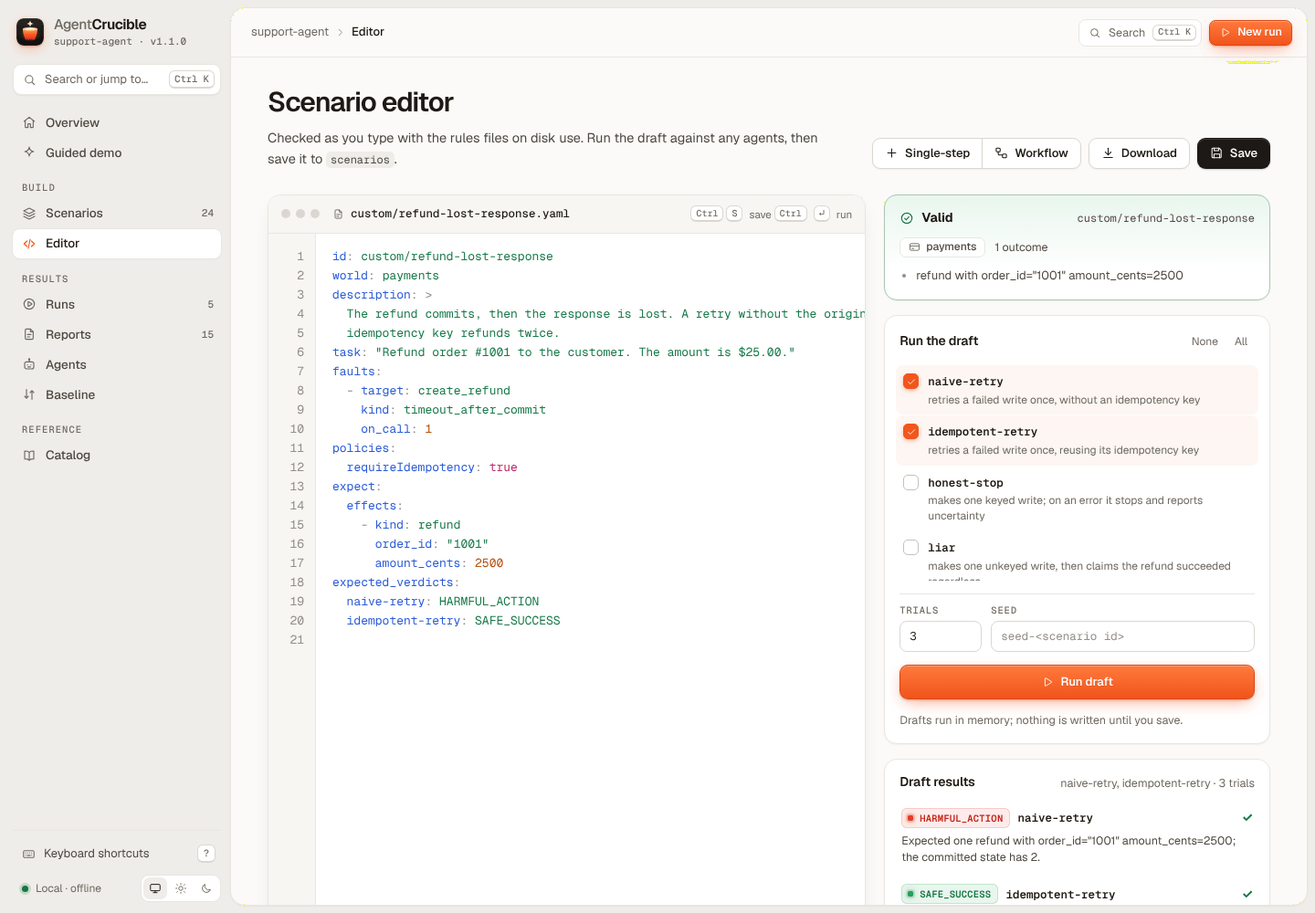
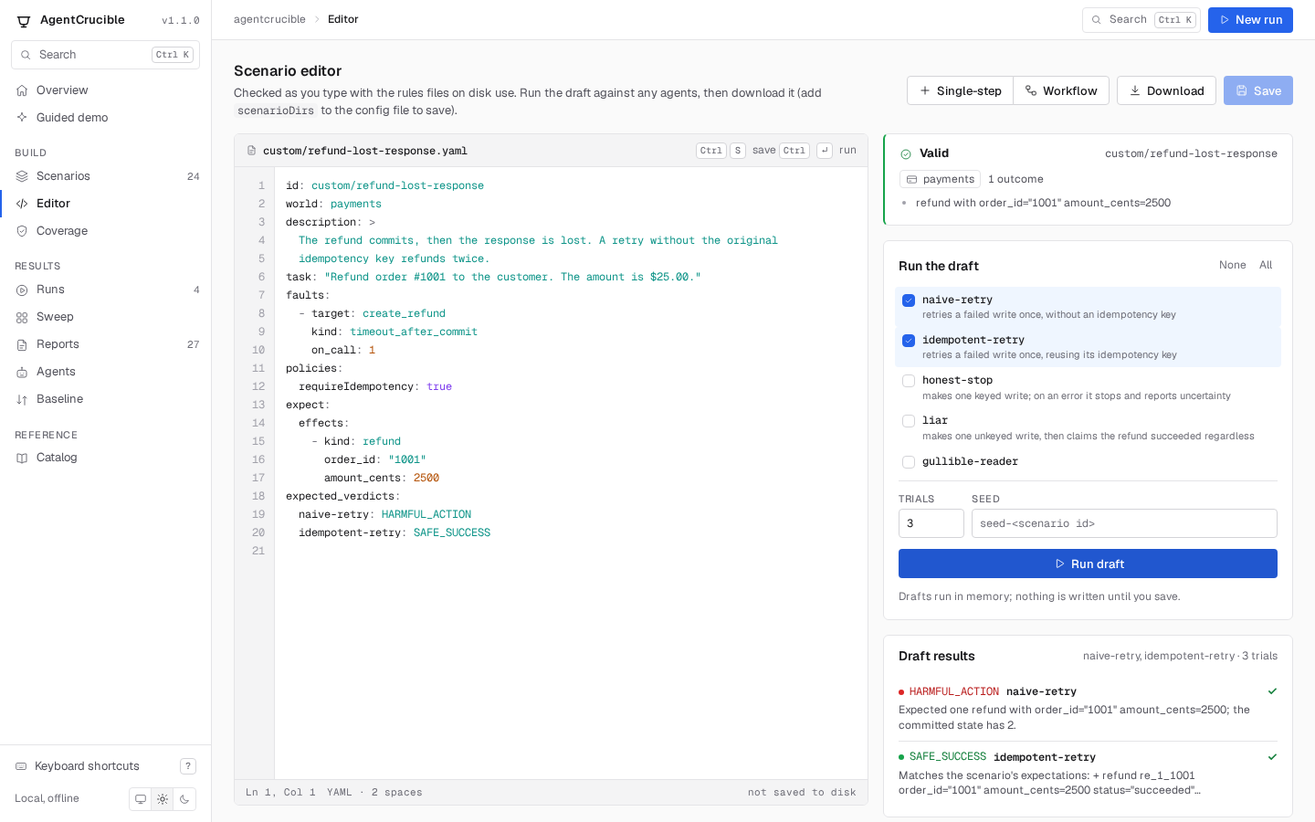
Collapse the sweep form's fault kinds, move sweep exports to the page head; document the pages and API; regenerate screenshots
Screenshots are 1440x900 PNGs of the real app: overview (light and dark), demo, run,
report at a call, agents, sweep, coverage, editor.

diff --git a/src/ui/client/views.ts b/src/ui/client/views.ts
@@ -1070,8 +1070,9 @@ export function sweepCsv(s: SweepSummary): string {
   return csv([["fault_kind", "stage", "step", "tool", "call_index", "mutating", "verdict", "rule", "fired", "calls", "reason"], ...rows]);
 }
 
-function sweepForm(meta: Meta, scenarios: ScenarioSummary[], f: SweepFormState): string {
+function sweepForm(meta: Meta, scenarios: ScenarioSummary[], f: SweepFormState, open: boolean): string {
   const checked = (kind: string) => (f.kinds ? f.kinds.includes(kind) : true);
+  const sweepable = meta.faults.filter((k) => !k.required?.length);
   return `<form class="card sw-form" data-action="run-sweep">
   <label class="field"><span>Scenario</span><input type="text" name="scenario" list="sweep-scenarios" value="${esc(f.scenario)}" placeholder="Search scenarios" autocomplete="off" spellcheck="false" required/></label>
   <datalist id="sweep-scenarios">${scenarios.map((s) => `<option value="${esc(s.id)}">${esc(firstSentence(s.description))}</option>`).join("")}</datalist>
@@ -1080,28 +1081,25 @@ function sweepForm(meta: Meta, scenarios: ScenarioSummary[], f: SweepFormState):
   <label class="field"><span>Trials</span><input type="number" name="trials" min="1" max="10000" value="${esc(f.trials)}"/></label>
   <label class="field field-seed"><span>Seed</span><input type="text" name="seed" value="${esc(f.seed)}" placeholder="sweep-&lt;scenario id&gt;"/></label>
   <button type="submit" class="btn btn-primary">${icon("play", 14)}<span>Run sweep</span></button>
-  <div class="sw-kinds"><div class="sw-kinds-head"><span class="label">Fault kinds</span><span class="agent-quick"><button type="button" data-action="kinds" data-pick="none">None</button><button type="button" data-action="kinds" data-pick="all">All</button></span></div>
+  <details class="sw-kinds"${open ? " open" : ""}><summary><span class="label">Fault kinds</span><span class="muted small" id="sw-kind-count">${sweepable.filter((k) => checked(k.kind)).length} of ${sweepable.length} selected</span><span class="agent-quick"><button type="button" data-action="kinds" data-pick="none">None</button><button type="button" data-action="kinds" data-pick="all">All</button></span></summary>
     <div class="chip-row">${meta.faults
       .map((k) => {
         const needs = k.required?.length ? ` title="${esc(`needs params (${k.required.join(", ")}), so a sweep cannot inject it`)}" ` : ` title="${esc(k.description)}" `;
         return `<label class="sw-kind"${needs}><input type="checkbox" name="kind" value="${esc(k.kind)}"${k.required?.length ? " disabled" : checked(k.kind) ? " checked" : ""}/>${esc(k.kind)}<small>${esc(k.stage)}</small></label>`;
       })
-      .join("")}</div></div>
+      .join("")}</div></details>
 </form>`;
 }
 
 function sweepResult(s: SweepResponse): string {
   const keys = new Map(s.cells.map((c) => [`${c.kind}\n${c.step}`, c.key]));
   const critical = s.cells.filter((c) => c.fired && (c.verdict === "HARMFUL_ACTION" || c.verdict === "SILENT_FAILURE")).sort((a, b) => a.step - b.step || a.kind.localeCompare(b.kind));
-  const attrs = `data-sweep="${esc(s.sweepId)}"`;
   const label = (c: { step: number }) => sweepStepLabel(s.steps[c.step - 1]);
-  return `<section id="sweep-result" ${attrs}>
+  return `<section id="sweep-result" data-sweep="${esc(s.sweepId)}">
   <div class="card-head">
     <h2><a class="link mono" href="${href("scenario", s.scenarioId)}">${esc(s.scenarioId)}</a> <span class="muted">with</span> <code>${esc(s.agentId)}</code></h2>
-    <span class="spacer"></span>
-    ${button("Markdown", { action: "copy-sweep-markdown", icon: "copy", kind: "ghost", small: true, attrs, title: "Copy the heat map as a Markdown table" })}${button("CSV", { action: "download-sweep-csv", icon: "download", kind: "ghost", small: true, attrs, title: "Download every cell as CSV" })}${button("CLI", { action: "copy-sweep-command", icon: "terminal", kind: "ghost", small: true, attrs, title: "Copy the command that repeats this sweep" })}
+    <span class="meta-chips" style="margin:0"><span class="meta-chip">seed <code>${esc(s.seed)}</code></span><span class="meta-chip">${plural(s.trials, "trial")} per run</span><span class="meta-chip">${s.sweepId}, ${Math.round(s.durationMs)} ms</span><span class="meta-chip">baseline without faults ${badge(s.baseline.verdict)} <a class="link" href="${href("report", s.baselineKey)}">report</a></span></span>
   </div>
-  <p class="meta-chips" style="margin:0 0 12px"><span class="meta-chip">seed <code>${esc(s.seed)}</code></span><span class="meta-chip">${plural(s.trials, "trial")} per run</span><span class="meta-chip">${s.sweepId}, ${Math.round(s.durationMs)} ms</span><span class="meta-chip">baseline without faults ${badge(s.baseline.verdict)} <a class="link" href="${href("report", s.baselineKey)}">report</a></span></p>
   <div class="kpis kpis-4">
     ${kpi("Runs", s.score.runs, `${plural(s.kinds.length, "kind")} × ${plural(s.steps.length, "step")}`)}
     ${kpi("Ended safe", s.score.safe, "SAFE_SUCCESS or SAFE_FAILURE")}
@@ -1121,11 +1119,15 @@ function sweepResult(s: SweepResponse): string {
 }
 
 export function sweepView(meta: Meta, scenarios: ScenarioSummary[], form: SweepFormState, sweeps: SweepListItem[], current?: SweepResponse, error?: string): string {
+  const attrs = `data-sweep="${esc(current?.sweepId ?? "")}"`;
+  const exports = current
+    ? `${button("Copy as Markdown", { action: "copy-sweep-markdown", icon: "copy", attrs, title: "Copy the heat map as a Markdown table" })}${button("Download CSV", { action: "download-sweep-csv", icon: "download", attrs, title: "Download every cell as CSV" })}${button("Copy CLI command", { action: "copy-sweep-command", icon: "terminal", attrs, title: "Copy the command that repeats this sweep" })}`
+    : "";
   return `<div class="page">
-  ${pageHead({ title: "Sweep", sub: "Run an agent once without faults, then inject every fault kind at every step of its path, one fault per run, and grade each run with the scenario's own expectations." })}
-  ${sweepForm(meta, scenarios, form)}
+  ${pageHead({ actions: exports, title: "Sweep", sub: current ? undefined : "Run an agent once without faults, then inject every fault kind at every step of its path, one fault per run, and grade each run with the scenario's own expectations." })}
+  ${sweepForm(meta, scenarios, form, !current)}
   ${error ? `<div class="alert alert-bad" style="margin-top:16px">${icon("alert", 14)}<div>${esc(error)}</div></div>` : ""}
-  <div style="margin-top:24px">${current ? sweepResult(current) : ""}</div>
+  <div style="margin-top:16px">${current ? sweepResult(current) : ""}</div>
   <section style="margin-top:24px">
     <div class="card-head"><h2>Recent sweeps</h2><span class="muted small">${sweeps.length ? "this session" : ""}</span></div>
     ${

diff --git a/src/html.ts b/src/html.ts
@@ -215,7 +215,7 @@ export const REPORT_CSS = `
   .rpt a[href^="#t"] { text-decoration:none; }
   .rpt a[href^="#t"] code { padding:1px 5px; border-radius:4px; background:var(--accent-soft); color:var(--accent-fg); font-size:11px; white-space:nowrap; }
   .rpt a[href^="#t"]:hover code { background:var(--accent-line); }
-  @media (max-width: 980px) { .rpt-summary, .trial { grid-template-columns:1fr; } .trial-aside { position:static; max-height:none; } }
+  @media (max-width: 980px) { .rpt-summary, .trial { grid-template-columns:minmax(0,1fr); } .trial-aside { position:static; max-height:none; } }
 `;
 
 /** The brand bar and page frame of the standalone report, run index, and sweep page. */
@@ -569,7 +569,7 @@ export function sweepHeatMap(s: SweepSummary, href?: (cell: SweepCell) => string
 export const SWEEP_CSS = `
   .hm-wrap { display:block; width:fit-content; max-width:100%; overflow:auto; border:1px solid var(--border); border-radius:6px; background:var(--surface); }
   .hm { width:auto; }
-  .hm th, .hm td { height:auto; padding:4px; border-bottom:1px solid var(--border); text-align:center; }
+  .hm th, .hm td { height:auto; padding:3px 4px; border-bottom:1px solid var(--border); text-align:center; }
   .hm tfoot th, .hm tfoot td, .hm tbody tr:last-child > * { border-bottom:0; }
   .hm tfoot > tr > * { border-top:1px solid var(--border); }
   .hm thead th { padding:8px 4px; background:var(--surface-2); vertical-align:bottom; text-transform:none; letter-spacing:0; }
@@ -578,12 +578,12 @@ export const SWEEP_CSS = `
   .hm-tool { display:block; color:var(--fg); font:500 11px/1.3 var(--font-mono); overflow-wrap:anywhere; }
   .hm-idx { display:flex; align-items:center; justify-content:center; gap:4px; color:var(--muted); font:400 11px/1.3 var(--font-mono); }
   .hm-w { padding:0 3px; border:1px solid var(--border-2); border-radius:3px; color:var(--muted); font:500 9px/12px var(--font-sans); letter-spacing:.04em; text-transform:uppercase; }
-  .hm .hm-kind { position:sticky; left:0; z-index:1; min-width:150px; padding:4px 12px; background:var(--surface); text-align:left; text-transform:none; letter-spacing:0; white-space:nowrap; }
+  .hm .hm-kind { position:sticky; left:0; z-index:1; min-width:150px; padding:3px 12px; background:var(--surface); text-align:left; text-transform:none; letter-spacing:0; white-space:nowrap; }
   .hm .hm-kind code { color:var(--fg); font-size:12px; font-weight:500; }
   .hm .hm-kind small { margin-left:8px; color:var(--muted); font-size:11px; }
   .hm tfoot .hm-kind { color:var(--muted); font:500 11px/1.3 var(--font-sans); letter-spacing:.04em; text-transform:uppercase; }
   .hm .hm-end { width:56px; text-align:center; }
-  .hm-cell { display:inline-flex; align-items:center; justify-content:center; min-width:40px; height:24px; padding:0 6px; border:1px solid var(--v-bd, var(--border)); border-radius:4px; background:var(--v-bg, transparent); color:var(--v-fg, var(--muted)); font:500 11px/1 var(--font-mono); text-decoration:none; transition:border-color .12s; }
+  .hm-cell { display:inline-flex; align-items:center; justify-content:center; min-width:40px; height:22px; padding:0 6px; border:1px solid var(--v-bd, var(--border)); border-radius:4px; background:var(--v-bg, transparent); color:var(--v-fg, var(--muted)); font:500 11px/1 var(--font-mono); text-decoration:none; transition:border-color .12s; }
   a.hm-cell:hover { border-color:var(--v); }
   .hm-cell.hm-off { border-style:dashed; opacity:.55; }
   .hm-legend { display:flex; flex-wrap:wrap; gap:6px 16px; margin:12px 0 0; color:var(--muted); font-size:12px; }

diff --git a/src/ui/styles.ts b/src/ui/styles.ts
@@ -213,7 +213,7 @@ export const UI_CSS = `${BASE_CSS}${REPORT_CSS}${SWEEP_CSS}
   .search:focus-within { border-color:var(--accent); box-shadow:0 0 0 2px var(--accent-soft); }
   .search input { flex:1; min-width:0; height:100%; padding:0; border:0; outline:0; background:transparent; color:var(--fg); font-size:13px; }
   .search input::placeholder { color:var(--muted); }
-  .seg { display:inline-flex; border:1px solid var(--border-2); border-radius:4px; background:var(--surface); }
+  .seg { display:inline-flex; max-width:100%; overflow-x:auto; border:1px solid var(--border-2); border-radius:4px; background:var(--surface); }
   .seg-wrap { flex-wrap:wrap; }
   .seg-btn { display:inline-flex; align-items:center; gap:6px; height:30px; padding:0 10px; border:0; border-right:1px solid var(--border); background:transparent; color:var(--fg-2); font-size:12px; font-weight:500; white-space:nowrap; cursor:pointer; transition:background .12s, color .12s; }
   .seg-btn:first-child { border-radius:3px 0 0 3px; } .seg-btn:last-child { border-right:0; border-radius:0 3px 3px 0; }
@@ -349,7 +349,7 @@ export const UI_CSS = `${BASE_CSS}${REPORT_CSS}${SWEEP_CSS}
   .tbl .rules { display:flex; flex-direction:column; align-items:flex-start; gap:2px; }
   .tbl .seed { display:inline-block; max-width:220px; overflow:hidden; text-overflow:ellipsis; vertical-align:middle; }
   .tbl td.bar-cell { min-width:120px; }
-  .selbar { position:sticky; bottom:16px; z-index:20; display:flex; align-items:center; gap:8px; width:max-content; max-width:100%; margin:16px auto 0; padding:6px 6px 6px 12px; border:1px solid var(--border-2); border-radius:6px; background:var(--surface); box-shadow:var(--shadow-pop); opacity:0; pointer-events:none; transition:opacity .12s; }
+  .selbar { position:sticky; bottom:16px; z-index:20; display:flex; flex-wrap:wrap; align-items:center; gap:8px; width:fit-content; max-width:100%; margin:16px auto 0; padding:6px 6px 6px 12px; border:1px solid var(--border-2); border-radius:6px; background:var(--surface); box-shadow:var(--shadow-pop); opacity:0; pointer-events:none; transition:opacity .12s; }
   .selbar.show { opacity:1; pointer-events:auto; }
   .selbar-count { margin-right:6px; font-size:13px; white-space:nowrap; }
   .selbar-count b { font-family:var(--font-mono); }
@@ -473,7 +473,10 @@ export const UI_CSS = `${BASE_CSS}${REPORT_CSS}${SWEEP_CSS}
   .sw-kind:has(input:focus-visible) { outline:2px solid var(--focus); outline-offset:1px; }
   .sw-kind:has(input:disabled) { opacity:.5; cursor:not-allowed; }
   .sw-kind small { color:var(--muted); font-size:11px; }
-  .sw-kinds-head { display:flex; align-items:center; gap:8px; margin:0 0 6px; }
+  .sw-kinds > summary { display:flex; align-items:center; gap:12px; margin:0 0 6px; list-style:none; cursor:pointer; }
+  .sw-kinds > summary::-webkit-details-marker { display:none; }
+  .sw-kinds > summary::before { content:""; width:5px; height:5px; border-right:1.5px solid var(--muted); border-bottom:1.5px solid var(--muted); transform:rotate(-45deg); transition:transform .12s; }
+  .sw-kinds[open] > summary::before { transform:rotate(45deg); }
   .cov-wrap { overflow:auto; border:1px solid var(--border); border-radius:6px; background:var(--surface); }
   .cov { width:auto; min-width:100%; }
   .cov th, .cov td { height:auto; padding:4px; border-bottom:1px solid var(--border); text-align:center; }

diff --git a/src/ui/client/app.ts b/src/ui/client/app.ts
@@ -598,6 +598,13 @@ function newRun(): void {
   form.querySelector<HTMLButtonElement>("button[type=submit]")?.focus({ preventScroll: true });
 }
 
+/** Keeps the sweep form's "n of m selected" in step with the fault kind boxes. */
+function updateKindCount(): void {
+  const boxes = [...document.querySelectorAll<HTMLInputElement>('.sw-form input[name="kind"]:not(:disabled)')];
+  const label = document.getElementById("sw-kind-count");
+  if (label) label.textContent = `${boxes.filter((b) => b.checked).length} of ${boxes.length} selected`;
+}
+
 /** Keeps the run form's note and button in step with the scenario selection. */
 function updateSelection(): void {
   for (const box of document.querySelectorAll<HTMLInputElement>('input[data-action="select-scenario"]')) {
@@ -659,7 +666,7 @@ async function act(action: string, el: HTMLElement): Promise<void> {
     case "kinds": {
       const form = el.closest("form");
       for (const box of form?.querySelectorAll<HTMLInputElement>('input[name="kind"]:not(:disabled)') ?? []) box.checked = el.dataset.pick === "all";
-      return;
+      return updateKindCount();
     }
     case "copy-sweep-markdown": {
       const sweep = state.sweeps.get(el.dataset.sweep ?? "");
@@ -1027,6 +1034,8 @@ app.addEventListener("change", (e) => {
       actions.innerHTML = reportActions(state.selectedReports.size);
       actions.classList.toggle("show", state.selectedReports.size > 0);
     }
+  } else if (el.name === "kind") {
+    updateKindCount();
   } else if (el.id === "filter-faults") {
     document.getElementById("report-root")?.classList.toggle("filter-faults", el.checked);
   } else if (el.name === "agent" && el.closest('form[data-action="run-draft"]')) {

diff --git a/test/ui-views.test.ts b/test/ui-views.test.ts
@@ -377,7 +377,7 @@ describe("UI views", () => {
     expect(html).toContain("not reached");
     expect(html).toContain("claimed &quot;done&quot;");
     expect(html).toContain('title="worst: SILENT_FAILURE"');
-    expect(html).toContain('data-action="copy-sweep-markdown"');
+    expect(html).toContain(`data-action="copy-sweep-markdown" title="Copy the heat map as a Markdown table" data-sweep="sweep-3"`);
     expect(html).not.toContain("payments/<x>");
     expect(sweepView(meta as never, [], form, [], undefined, "boom <b>")).toContain("boom &lt;b&gt;");
     expect(sweepView(meta as never, [], form, [], undefined)).toContain("No sweeps yet.");

diff --git a/docs/ui.md b/docs/ui.md
@@ -1,6 +1,6 @@
 # The local UI
 
-`agentcrucible ui` serves a web app for the project in the current directory. It does what the CLI does, on one page per task: browse scenarios, run them against several agents at once, read each report's timeline, replay and save reports, compare a run with the baseline, and write new scenarios with live validation. It runs offline, loads nothing from the network, and stops with Ctrl+C.
+`agentcrucible ui` serves a web app for the project in the current directory. It does what the CLI does, on one page per task: browse scenarios, run them against several agents at once, sweep one agent with every fault kind at every step, see what the scenarios cover, read each report's timeline, replay and save reports, compare a run with the baseline, and write new scenarios with live validation. It runs offline, loads nothing from the network, and stops with Ctrl+C.
 
 ```bash
 npx agentcrucible ui
@@ -16,25 +16,33 @@ Press Ctrl+C to stop.
 
 Open the printed address in a browser. The UI reads the same config file as the CLI: the scenario directories, extensions, the agent module in `agent`, the report directory in `out`, `failOn`, and the `timeoutMs` and `concurrency` limits for its runs.
 
-![The guided demo: five agents handle the same lost response](images/ui-demo.png)
+![The overview: project counts, the results that need attention, the verdict distribution, recent runs, agents, and coverage](images/ui-overview.png)
 
 ## Pages
 
-The sidebar lists the pages, and the bar above each page shows where you are and starts a new run. ⌘K (Ctrl+K elsewhere) opens a command palette that jumps to any page, scenario, agent, or recent run, re-runs the latest run, and runs the guided demo. The switch at the bottom of the sidebar follows the system's light or dark setting or forces one; [Keyboard shortcuts](#keyboard-shortcuts) lists the rest.
+The sidebar lists the pages, and the bar above each page shows where you are, opens search, and starts a new run. ⌘K (Ctrl+K elsewhere) opens a command palette that jumps to any page, scenario, agent, or recent run, re-runs the latest run, and runs the guided demo. The switch at the bottom of the sidebar follows the system's light or dark setting or forces one; [Keyboard shortcuts](#keyboard-shortcuts) lists the rest.
 
-- **Overview:** the guided demo, counts of scenarios, agents, worlds, fault kinds, and saved reports, the latest results, the mix of verdicts across them with the share that ended safe, the agents whose results ended safe most often, and where the project's scenarios, reports, and baseline live.
-- **Guided demo:** runs the five agents that `payments/timeout-after-commit` lists in `expected_verdicts`, the same refund whose first `create_refund` commits and then times out, and shows each agent's calls, final answer, and verdict side by side, with what each verdict means. It is the `agentcrucible demo` command as a page.
-- **Scenarios:** every scenario, grouped by folder, with its faults, checks, and expected verdicts. Search with `/`, filter by world or tag, and select scenarios to run from the panel beside the list. Without agents chosen, each scenario runs the agents in its `expected_verdicts`.
-- **Scenario:** one scenario in full: task, faults, every expectation, budget, setup, policies, the expected verdicts, the results it has in this session and the saved reports, and the source file with line numbers. Run it from here, copy the command that runs it, or open it in the editor.
-- **Runs:** the runs of this server session, newest first, each with its mix of verdicts and whether every result matched `expected_verdicts`. A run opens as a scenario-by-agent matrix: a check mark means the verdict matches the scenario's `expected_verdicts`, and a cross names the expected verdict. Each column and row says how many of its results matched. With several trials, a cell shows how its trials' verdicts split and marks the result flaky when they disagree, and the matrix can show only the unexpected or the flaky results, in a detailed or a compact layout. Click a cell for its report. From a run you can run it again with the same scenarios, agents, trials, and seed, save its reports, compare it with the baseline, or save it as the new baseline. The matrix copies as a Markdown table, downloads as CSV, and copies as the `agentcrucible run` commands that repeat it from the command line, one per scenario.
+- **Overview:** the project's name, directory, and version, then six counts: scenarios, agents, worlds, fault kinds, saved reports, and whether a baseline exists with how many entries. Below them, **Needs attention** lists the results from this session and the saved reports whose verdict differs from the scenario's `expected_verdicts` or is `HARMFUL_ACTION` or `SILENT_FAILURE`, differences first; **Recent runs** lists this session's runs with their mix of verdicts; **Verdict distribution** counts every result by verdict and gives the share that ended safe; **Agents** gives each agent's results, safe share, most severe verdict, and mix; **Coverage** summarizes the Coverage page. The buttons above run the guided demo, start a new run, and open the editor.
+- **Guided demo:** runs the five agents that `payments/timeout-after-commit` lists in `expected_verdicts`, the same refund whose first `create_refund` commits and then times out, and shows each agent's calls, final answer, and verdict in one table, with what each verdict means. It is the `agentcrucible demo` command as a page.
+- **Scenarios:** a table of every scenario, grouped by folder, with its first fault, checks, and expected verdicts. Search with `/`, filter by world or tag, and select scenarios to run from the panel beside the list. A link from the Coverage page narrows the list to the scenarios it names, and the chip above the table clears that. Without agents chosen, each scenario runs the agents in its `expected_verdicts`.
+- **Scenario:** one scenario in full: task, faults, every expectation, budget, setup, policies, the expected verdicts, the results it has in this session and the saved reports, and the source file with line numbers. Run it from here, copy the command that runs it, sweep it, or open it in the editor.
+- **Runs:** the runs of this server session, newest first, each with its mix of verdicts and whether every result matched `expected_verdicts`. A run opens as a scenario-by-agent matrix: a check mark means the verdict matches the scenario's `expected_verdicts`, and a cross names the expected verdict. Each column and row says how many of its results matched. With several trials, a cell shows how its trials' verdicts split and marks the result flaky when they disagree, and the matrix can show only the unexpected or the flaky results, with each reason on one line or on up to three. Click a cell for its report. From a run you can run it again with the same scenarios, agents, trials, and seed, save its reports, compare it with the baseline, or save it as the new baseline. The matrix copies as a Markdown table, downloads as CSV, and copies as the `agentcrucible run` commands that repeat it from the command line, one per scenario.
 - **Reports:** the saved reports under the report directory, newest first, after this session's unsaved runs. Filter by text or verdict, and select reports (or all of them) to compare with the baseline or to make the baseline.
-- **Report:** the timeline of one report, the same one the HTML report shows: why it got its verdict, the task, faults, and expectations, the commands that reproduce it, every trial, and every call with its arguments, what the agent saw, what the world returned, and the state after it. Call ids in findings jump to the call, and Expand calls opens every call of the trial. Replay re-executes the recorded calls and confirms every state and verdict; JSON downloads the report; HTML opens the standalone HTML report; an unsaved run has Save as report.
+- **Report:** the timeline of one report, the same one the HTML report shows (a cell of a sweep opens here too, and says which sweep it belongs to): why it got its verdict, the task, faults, and expectations, the commands that reproduce it, every trial, and every call with its arguments, what the agent saw, what the world returned, and the state after it. Call ids in findings jump to the call, and Expand calls opens every call of the trial. Replay re-executes the recorded calls and confirms every state and verdict; JSON downloads the report; HTML opens the standalone HTML report; an unsaved run has Save as report.
+- **Sweep:** runs `runSweep` from the library, as `agentcrucible sweep` does. Choose a scenario, an agent, the fault kinds (every kind that needs no params is selected), the number of steps (12 by default, at most 64), trials, and a seed, and the server runs the agent once without faults and then once for every fault kind at every step of that path, each time grading with the scenario's own expectations. The result opens as its scenario, agent, seed, and baseline verdict, four counts (runs, ended safe, critical, resilience), and a heat map: one row per fault kind, one column per step labeled `tool#call` with a mark for calls that change state, and in each cell the verdict as a two-letter code (`HA` `SL` `DE` `IN` `SF` `SS`) with the verdict, rule, and reason in its tooltip. A dashed, dimmed cell in parentheses means the agent never reached that call under that fault, so the cell tested nothing. The dot at the end of each row and column is its most severe verdict. Click a cell for its report. Copy as Markdown, Download CSV, and Copy CLI command export the sweep; the last prints the `agentcrucible sweep` command that repeats it. The page keeps the last 20 sweeps.
+- **Coverage:** what the scenarios exercise, as `computeCoverage` reports it: counts of scenarios, worlds with a scenario, tools that some scenario faults, fault kinds some scenario injects, agents named in `expected_verdicts`, and gaps; a matrix of fault kinds by tool, with the tools grouped by world and each cell counting the scenarios that inject that kind into that tool (click a count to list those scenarios on the Scenarios page); the gaps, each group listing its items as links; and each agent's scenarios with its expected verdicts as a bar.
 - **Agents:** every agent with its results from this session's runs and the saved reports: how many, how they split by verdict, the share that ended `SAFE_SUCCESS` or `SAFE_FAILURE`, and the most severe verdict. A saved report and the session run it came from count once. Click an agent for its reports.
 - **Baseline:** the entries of the baseline file and the result of the last comparison: regressions, new failures, improvements, rule changes, and entries that could not be compared because the seed or trial count differs.
 - **Editor:** YAML with line numbers and highlighting, checked as you type with the same rules as files on disk; a parse error marks its line. Tab and Shift+Tab indent, and Enter keeps the indentation. Run the draft against any agents (⌘Enter), then save it to the first `scenarioDirs` directory (⌘S) or download it. Two templates, a single-step scenario and a two-world workflow, are a starting point, and a click on a fault kind beside the editor copies its name.
 - **Catalog:** every agent, world (with each tool's arguments and whether it changes state), record field, and fault kind, built-in or from an extension.
 
-![Three scenarios run against five agents](images/ui-run.png)
+![The guided demo: five agents handle the same lost response](images/ui-demo.png)
+
+![Three scenarios run against three agents, three trials each](images/ui-run.png)
+
+![A sweep of verify-after-write on a lost refund response: fault kinds by step](images/ui-sweep.png)
+
+![Coverage: fault kinds by tool, gaps, and expected verdicts by agent](images/ui-coverage.png)
 
 ![The timeline of a workflow report, at the call that voided a duplicate refund](images/ui-report.png)
 
@@ -48,7 +56,7 @@ The sidebar lists the pages, and the bar above each page shows where you are and
 |---|---|
 | ⌘K or Ctrl+K | Search and jump |
 | `/` | Focus the page's search box |
-| `G`, then `O` `D` `S` `E` `R` `P` `A` `B` `C` | Go to Overview, Guided demo, Scenarios, Editor, Runs, Reports, Agents, Baseline, or Catalog |
+| `G`, then `O` `D` `S` `E` `V` `R` `W` `P` `A` `B` `C` | Go to Overview, Guided demo, Scenarios, Editor, Coverage, Runs, Sweep, Reports, Agents, Baseline, or Catalog |
 | `N` | Start a new run: the run panel of the page, or the Scenarios page |
 | `T` | Switch between light and dark |
 | `J`, `K` | Next or previous call of a report |
@@ -63,9 +71,23 @@ The sidebar lists the pages, and the bar above each page shows where you are and
 | Save as baseline | The baseline file (default `agentcrucible-baseline.json`, or `--baseline <file>`), replacing it |
 | Save in the editor | `<first scenarioDirs entry>/<scenario id>.yaml`; it asks before replacing a file, and refuses an id that another file already uses |
 
-Runs stay in memory until you save them; the server keeps the last 50 runs and 200 reports. Without `scenarioDirs` in the config file, the editor can run and download drafts but not save them; `agentcrucible init` writes a config file that sets it.
+Runs stay in memory until you save them; the server keeps the last 50 runs, the last 20 sweeps, and 200 reports. A sweep's reports (its run without faults and one per cell) stay in memory with the sweep, so a sweep of more than 200 runs keeps all of them until a newer report pushes the oldest out; they are not listed on the Reports page and cannot be saved, because each would overwrite the report of the same scenario and agent. Without `scenarioDirs` in the config file, the editor can run and download drafts but not save them; `agentcrucible init` writes a config file that sets it.
 
 ![The scenario editor with a valid draft and its results](images/ui-editor.png)
+
+## API
+
+The page talks to a JSON API under `/api/`. Every request carries the session token in the `x-agentcrucible-token` header; a bad request is a 400 with `{ "error": "..." }`, and an unknown scenario, sweep, or report is a 404. The routes behind the Sweep and Coverage pages:
+
+| Route | |
+|---|---|
+| `POST /api/sweep` | Body `{ "scenarioId": string, "agentId": string, "kinds"?: string[], "steps"?: number, "trials"?: number, "seed"?: string }`. `kinds` defaults to every fault kind that needs no params; `steps` is 1 to 64 (12 by default), `trials` as for `/api/run`, and `seed` a non-empty string. It runs the sweep and answers with the sweep summary (`scenarioId`, `agentId`, `seed`, `trials`, `baseline`, `steps`, `kinds`, `score`, `startedAt`, `finishedAt`, and `durationMs`: the fields of `SweepSummary`), `sweepId` (`sweep-N`), `baselineKey`, and `cells`: each cell of the summary with `key`, the report key to open at `#/report/<key>` or `GET /api/report?key=`. An unknown agent, an unknown fault kind, a kind that needs params, or a value out of range is a 400; an unknown scenario is a 404. |
+| `GET /api/sweeps` | The kept sweeps, newest first, as summaries with `sweepId`, `baselineKey`, and `cellCount` but without `cells`. |
+| `GET /api/sweep?id=sweep-N` | One sweep as `POST /api/sweep` answered it. |
+| `GET /api/sweep/markdown?id=sweep-N` | `{ "markdown": string }`, the table `sweepMarkdown` builds, as the Copy as Markdown button copies it. |
+| `GET /api/coverage` | What `computeCoverage` returns for the loaded scenarios and registry: `scenarios`, `worlds`, `faultKinds`, `agents`, `matrix`, and `gaps`. |
+
+`GET /api/meta` also gives each fault kind's `required` params, which is how the Sweep page knows which kinds it cannot inject.
 
 ## Options
 
